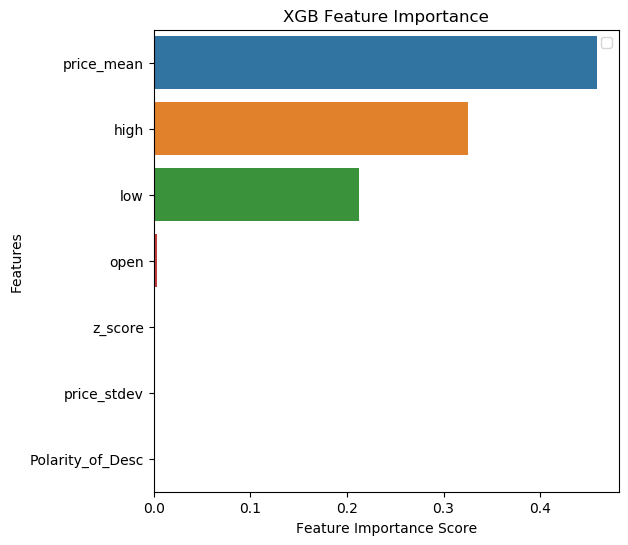
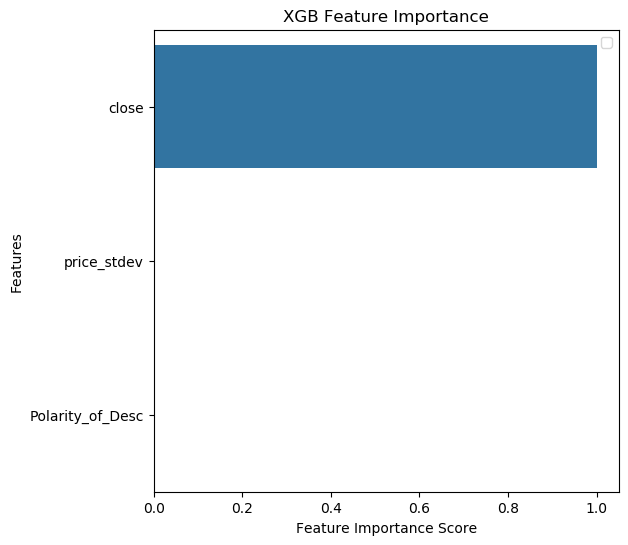
....

diff --git a/graphs/correlation.html b/graphs/correlation.html
@@ -2,84 +2,28 @@
   <thead>
     <tr style="text-align: right;">
       <th></th>
-      <th>low</th>
-      <th>high</th>
-      <th>open</th>
-      <th>price_mean</th>
+      <th>close</th>
       <th>price_stdev</th>
-      <th>z_score</th>
       <th>Polarity_of_Desc</th>
     </tr>
   </thead>
   <tbody>
     <tr>
-      <th>low</th>
+      <th>close</th>
       <td>1.000000</td>
-      <td>0.999604</td>
-      <td>0.999711</td>
-      <td>0.999891</td>
-      <td>0.437322</td>
-      <td>0.004016</td>
-      <td>0.107672</td>
-    </tr>
-    <tr>
-      <th>high</th>
-      <td>0.999604</td>
-      <td>1.000000</td>
-      <td>0.999844</td>
-      <td>0.999891</td>
-      <td>0.461013</td>
-      <td>0.003937</td>
-      <td>0.106846</td>
-    </tr>
-    <tr>
-      <th>open</th>
-      <td>0.999711</td>
-      <td>0.999844</td>
-      <td>1.000000</td>
-      <td>0.999848</td>
-      <td>0.452906</td>
-      <td>0.003828</td>
-      <td>0.107340</td>
-    </tr>
-    <tr>
-      <th>price_mean</th>
-      <td>0.999891</td>
-      <td>0.999891</td>
-      <td>0.999848</td>
-      <td>1.000000</td>
-      <td>0.449264</td>
-      <td>0.003752</td>
-      <td>0.107194</td>
+      <td>0.450110</td>
+      <td>0.107012</td>
     </tr>
     <tr>
       <th>price_stdev</th>
-      <td>0.437322</td>
-      <td>0.461013</td>
-      <td>0.452906</td>
-      <td>0.449264</td>
+      <td>0.450110</td>
       <td>1.000000</td>
-      <td>-0.001292</td>
       <td>0.024673</td>
-    </tr>
-    <tr>
-      <th>z_score</th>
-      <td>0.004016</td>
-      <td>0.003937</td>
-      <td>0.003828</td>
-      <td>0.003752</td>
-      <td>-0.001292</td>
-      <td>1.000000</td>
-      <td>-0.006852</td>
     </tr>
     <tr>
       <th>Polarity_of_Desc</th>
-      <td>0.107672</td>
-      <td>0.106846</td>
-      <td>0.107340</td>
-      <td>0.107194</td>
+      <td>0.107012</td>
       <td>0.024673</td>
-      <td>-0.006852</td>
       <td>1.000000</td>
     </tr>
   </tbody>

diff --git a/graphs/Feature_Importance.html b/graphs/Feature_Importance.html
@@ -7,32 +7,16 @@
   </thead>
   <tbody>
     <tr>
-      <th>price_mean</th>
-      <td>0.458358</td>
-    </tr>
-    <tr>
-      <th>high</th>
-      <td>0.325121</td>
-    </tr>
-    <tr>
-      <th>low</th>
-      <td>0.212742</td>
-    </tr>
-    <tr>
-      <th>open</th>
-      <td>0.003603</td>
-    </tr>
-    <tr>
-      <th>z_score</th>
-      <td>0.000104</td>
+      <th>close</th>
+      <td>0.999851</td>
     </tr>
     <tr>
       <th>price_stdev</th>
-      <td>0.000054</td>
+      <td>0.000093</td>
     </tr>
     <tr>
       <th>Polarity_of_Desc</th>
-      <td>0.000017</td>
+      <td>0.000056</td>
     </tr>
   </tbody>
 </table>

diff --git a/pred.py b/pred.py
@@ -41,7 +41,8 @@ def split_dataset(data, test_percent: int):
 
 type_hourly ='csv/processed/BTC_with_news.csv'
 type_daily = 'csv/processed/BTC_with_news_daily.csv'
-df = pd.read_csv(type_daily)
+df = pd.read_csv(type_hourly)
+df2 = df.copy()
 
 ## GRAPH ENTIRE DATASET ##
 df_rev = df.iloc[::-1]
@@ -50,11 +51,12 @@ plt.plot(df_rev['Day'], df_rev['price_mean'])
 plt.title('BTC Price Over Time ')
 figure.savefig('graphs/BTC_Price_Over_Time.png',bbox_inches = "tight")
 plt.close()
+
 ## POST PROCESSING ##
 df['output'] = df['high'].shift(1)
 df = df.drop(0)
 df = df.dropna()
-df = df.drop(columns=['time', 'Day','open','z_score'])
+df = df.drop(columns=['time', 'Day','open','z_score','low','high','price_mean'])
 
 
 ## CORRELATION TESTS ##
@@ -75,8 +77,8 @@ lr = linear_regression(X_train, Y_train)
 ## OUTPUT ##
 
 #LinReg
-pdf = pd.DataFrame(columns=['pred', 'true'])
-pdf['pred'] = lr.predict(X_test)
+pdf = pd.DataFrame(columns=['true'])
+pdf['pred_Lin_Reg'] = lr.predict(X_test)
 pdf['true'] = Y_test.to_numpy()
 print("LinReg RMSE: ", np.sqrt(mean_squared_error(Y_test, lr.predict(X_test))))
 print(pdf)
@@ -84,11 +86,16 @@ print(pdf)
 #Xgboost
 pdf2 = pd.DataFrame(columns=['pred', 'true'])
 pdf2['pred'] = xgbm.predict(X_test)
+pdf['pred_XGBoost'] = xgbm.predict(X_test)
 pdf2['true'] = Y_test.to_numpy()
 print("XGB RMSE: ", np.sqrt(mean_squared_error(Y_test, xgbm.predict(X_test))))
-print (pdf2)
+print(pdf2)
 
-## FEATURE IMPORTANCE ##
+## FEATURE IMPORTANCE Linear Regression##
+f_imp_lr = df.corr()
+print(f_imp_lr['output'])
+
+## FEATURE IMPORTANCE XGBoost##
 feat_imp = pd.Series(xgbm.feature_importances_,index=X_train.transpose().index).sort_values(ascending=False)
 feature_importance = plt.figure(figsize = (6,6))
 sns.barplot(x=feat_imp, y=feat_imp.index)
@@ -99,3 +106,20 @@ plt.legend()
 feat_imp.to_frame().rename(columns={0: "Feature Importance"}).to_html('graphs/Feature_Importance.html')
 feature_importance.savefig("graphs/XGB_Feature_Importance.png", bbox_inches = "tight")
 plt.close()
+
+## Predictions ##
+test, train = split_dataset(df2, 20)
+pdf['time'] = test['time']
+figure = plt.figure(figsize = (12,6))
+pdf = pdf.iloc[::-1]
+plt.plot( 'time', 'pred_Lin_Reg', data=pdf, marker='',  color='red', linewidth=1, label='Linear Regression')
+plt.plot( 'time', 'pred_XGBoost', data=pdf, marker='', color='green', linewidth=1,label="XGBoost")
+plt.plot( 'time', 'true', data=pdf, marker='', color='black', linewidth=2,label="Actual",alpha=0.5)
+plt.xticks(pdf['time'][::336], rotation='vertical')
+plt.title('Hourly Predictions')
+plt.legend()
+figure.savefig("graphs/predictions.png", bbox_inches = "tight")
+
+plt.close()
+
+

diff --git a/clustering.py b/clustering.py
@@ -22,12 +22,26 @@ def elbow_point(df):
 
 
 kmeans = KMeans(n_clusters=elbow_point(df_train)).fit(df_train)
+
+## SCATTER PLOT CLUSTER ##
 plt.scatter(df_train['price_mean'], df_train['price_stdev'], c=kmeans.predict(df_train), s=50, cmap='viridis')
+centers = kmeans.cluster_centers_
+plt.scatter(centers[:, 0], centers[:, 1], c='black', s=200, alpha=0.5)
 plt.xlabel('mean')
 plt.ylabel('stdev')
 plt.show()
+plt.close()
 
-# df_stripped['cluster']=kmeans.labels_
+## SCATTER PLOT TIME CLUSTER ##
+df_time = df_stripped.iloc[::-1]
+df_time['cluster']=kmeans.labels_
+plt.scatter(df_time['Day'], df_time['cluster'], c=kmeans.predict(df_train), s=50, cmap='viridis')
+plt.xlabel('time')
+plt.ylabel('cluster')
+plt.xticks(df_time['Day'][::14], rotation='vertical')
+plt.show()
+plt.close()
+
 # df_stripped.to_csv('cluster_news_delta.csv')
 # df_output= df_stripped.reset_index().drop(columns=['index','z_score','price_mean','open','close'])
 
